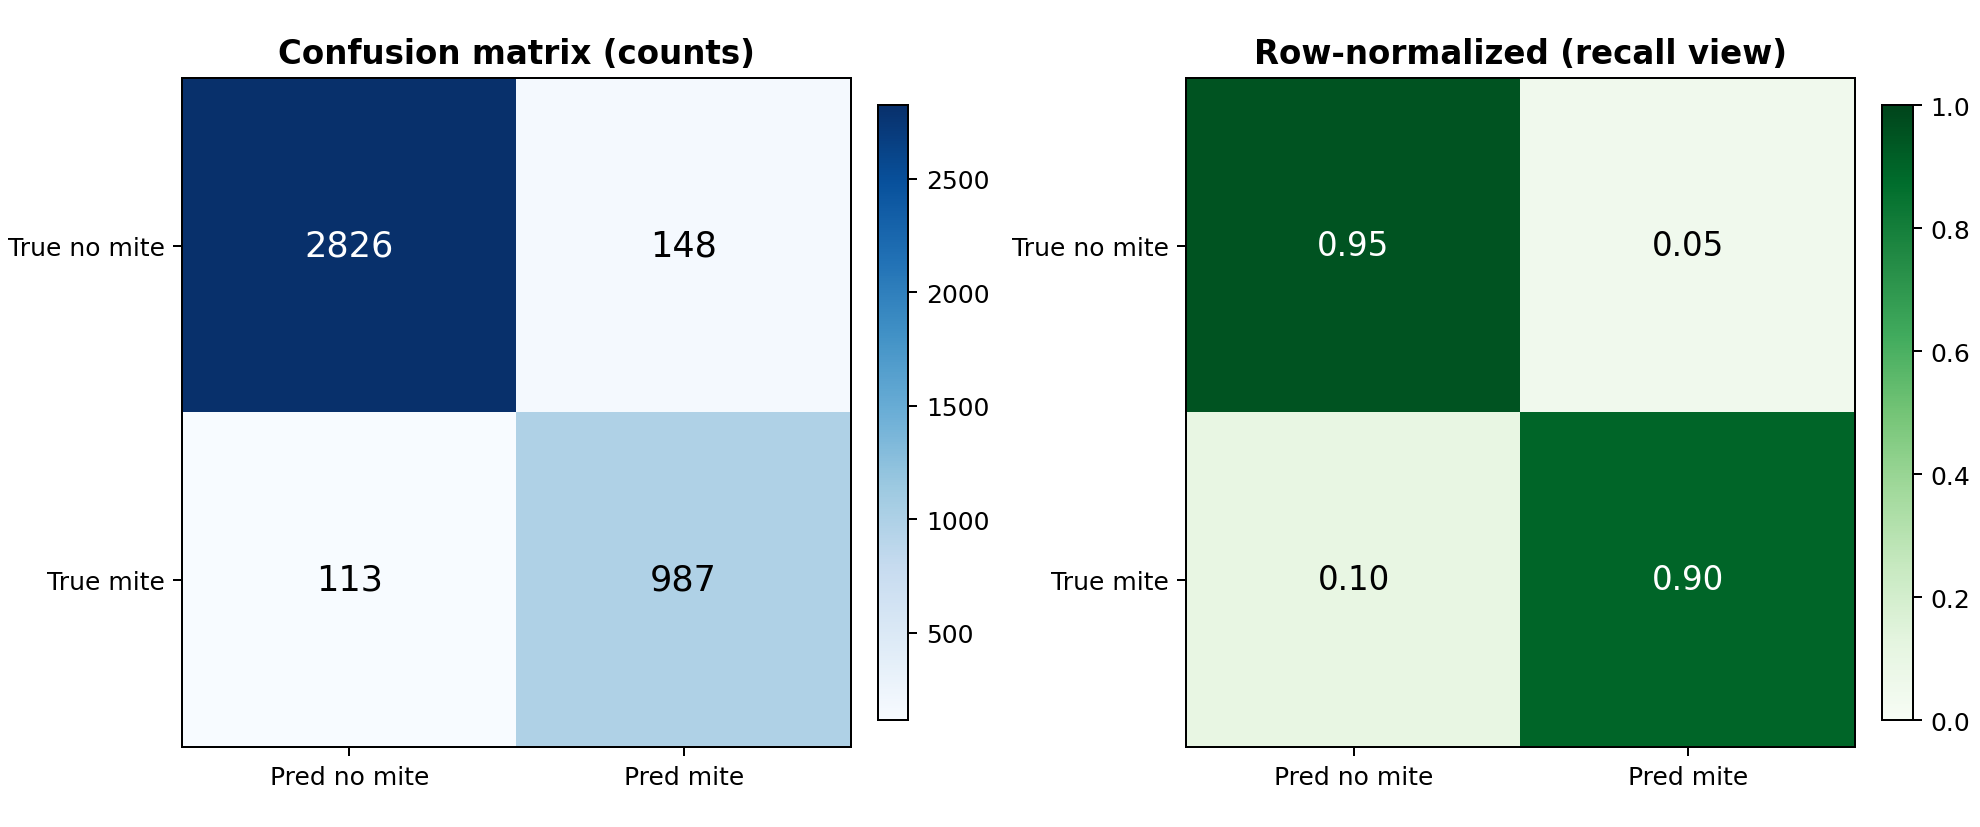
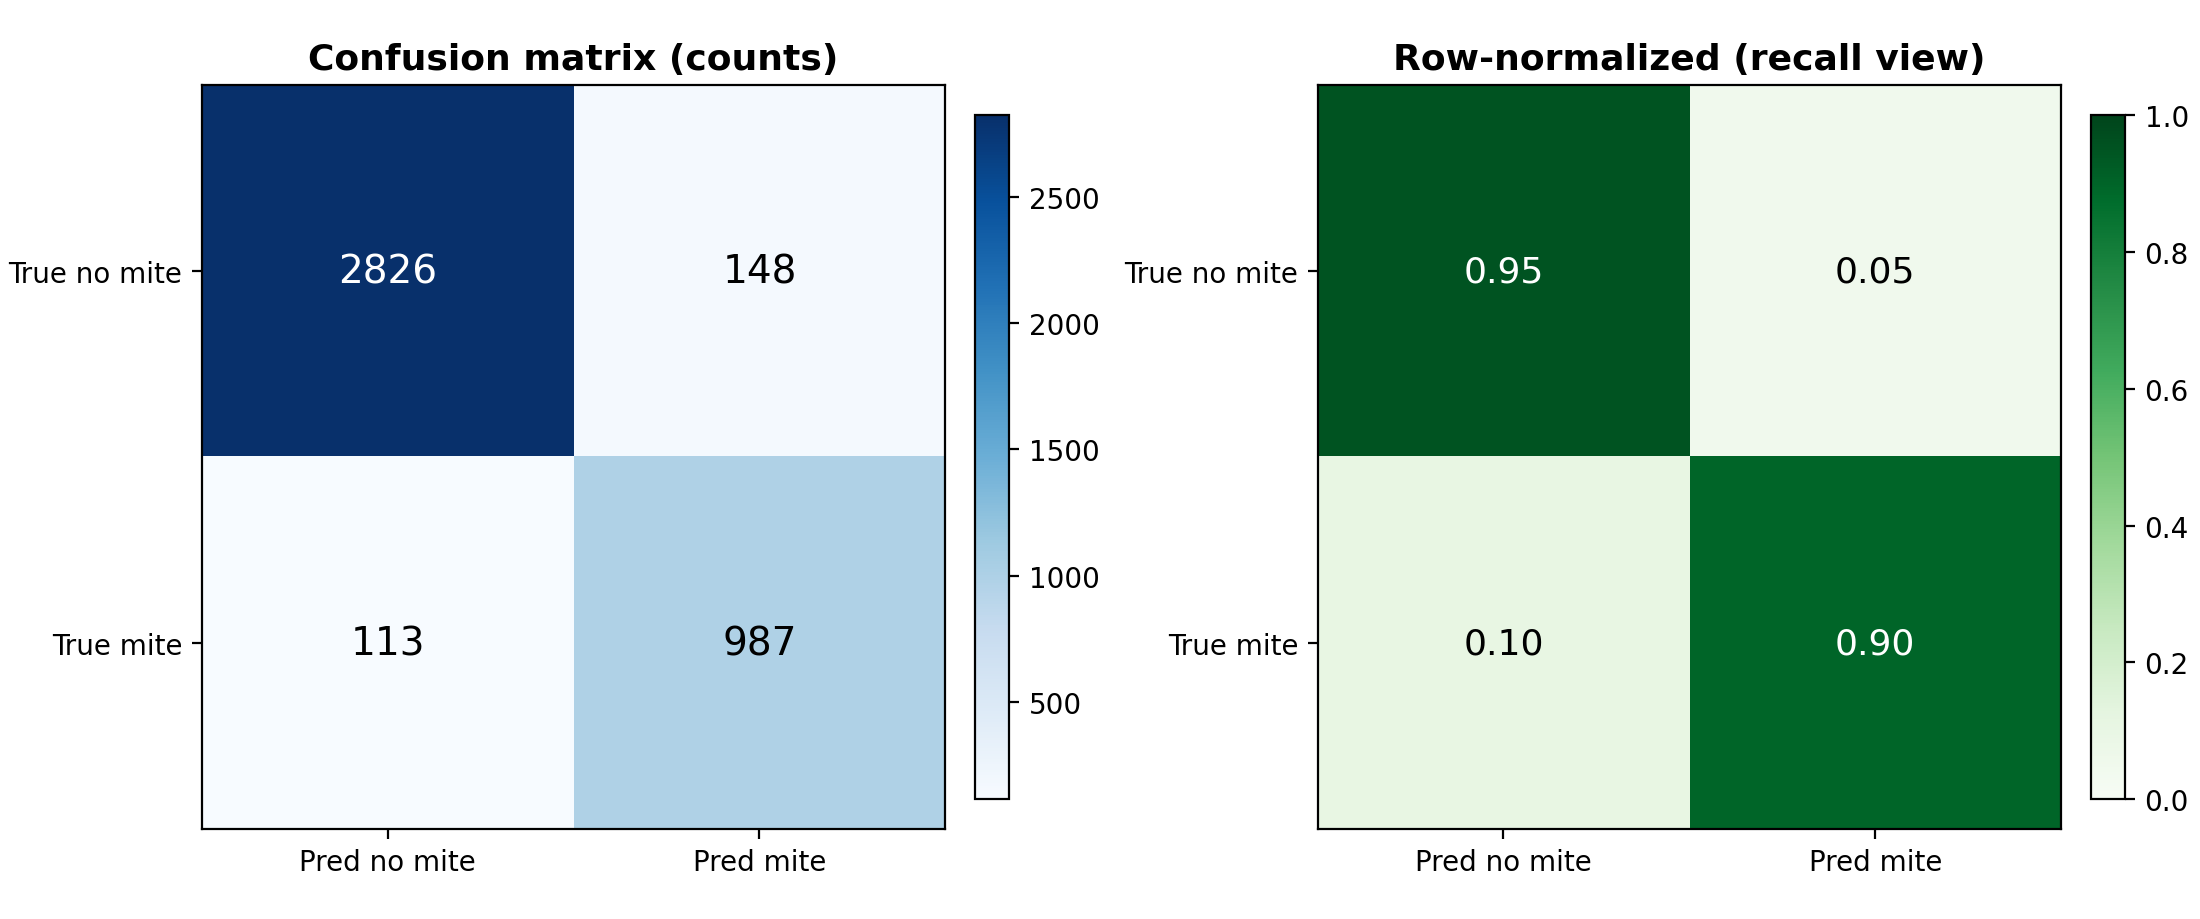
poster_results: cells figures + refreshed summaries
Adds cells_* PNGs from completed train_cells run (SLURM job 2216924) and
refreshes SUMMARY.md / summary.json. Regenerated seg/mite PNGs at dpi=200
with --no-roc --no-qualitative fast path (same metrics, updated styling).

diff --git a/beevision/poster_results/SUMMARY.md b/beevision/poster_results/SUMMARY.md
@@ -18,6 +18,13 @@ Auto-generated; re-run `make poster-results` after new training runs.
 - **Test AUROC:** 0.9754
 - **Test F1 (mite):** 0.8832
 
+## Cell classifier (`deepbee_cls`, 7-class ResNet-50)
+
+- **Best checkpoint (val macro-F1):** epoch 12
+- **Test accuracy:** 0.5629
+- **Test balanced accuracy:** 0.5789
+- **Test macro-F1:** 0.3749
+
 ## Figure files
 
 | File | Description |
@@ -29,3 +36,7 @@ Auto-generated; re-run `make poster-results` after new training runs.
 | `mite_test_metrics_bar.png` | Held-out test headline metrics |
 | `mite_roc_curve.png` | ROC on test (re-eval from `best.pt`) |
 | `segmentation_qualitative_test.png` | RGB / GT / pred / error |
+| `cells_training_curves.png` | Loss + val macro-F1 / acc / bal-acc |
+| `cells_test_headline_bar.png` | Test accuracy / bal-acc / macro-F1 |
+| `cells_per_class_f1.png` | Per-class F1 (horizontal bars) |
+| `cells_confusion_matrix.png` | 7×7 counts + row-normalized |
